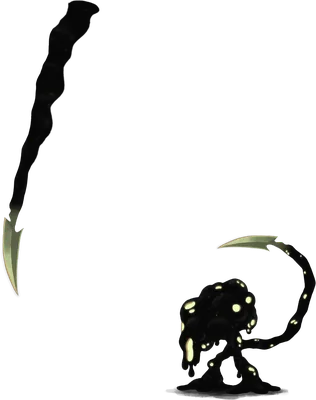
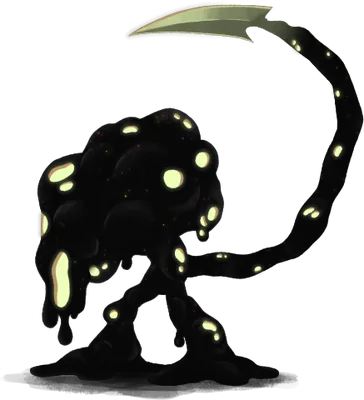
Reframe encounter artwork and dismiss tooltips on click

diff --git a/js/tooltip.js b/js/tooltip.js
@@ -311,21 +311,29 @@ document.addEventListener("pointerdown", e => {
   pressWasTouch = e.pointerType === "touch" || e.pointerType === "pen";
 }, { capture: true, passive: true });
 document.addEventListener("click", e => {
-  if (pressWasTouch && !pressStartedInTip && e.target.closest(TIP_BOXES)) {
+  const box = e.target.closest(TIP_BOXES);
+  if (!box) return;
+  if (pressWasTouch && !pressStartedInTip) {
     e.preventDefault();
     e.stopPropagation();
+    return;
   }
+  const control = e.target.closest("a, button, input, select, textarea, summary, [data-pick], [data-card-pop]");
+  if (control && box.contains(control)) return;
+  e.stopPropagation();
+  if (box.classList.contains("floor-tip")) closeFloorTip();
+  dismissTips();
 }, true);
 
-// Esc closes whatever tooltip is showing: the shared box, a focus-opened one
-// (blur) and a hover-opened CSS one (the same class a scroll uses, lifted
-// when the pointer next moves).
-document.addEventListener("keydown", e => {
-  if (e.key !== "Escape") return;
+// Close shared and inline tooltips on Escape or a click on their surface.
+function dismissTips() {
   hideSharedTooltip();
   const active = document.activeElement;
   if (active && active.matches(TIP_FOCUS_TRIGGERS)) active.blur();
   document.body.classList.add("suppress-hover-tooltips");
+}
+document.addEventListener("keydown", e => {
+  if (e.key === "Escape") dismissTips();
 });
 
 // "IRONCLAD" -> "Ironclad", for legends, labels, and tooltips

diff --git a/dashboard.css b/dashboard.css
@@ -1968,6 +1968,7 @@ h1 {
 }
 /* On a mouse, a box with nothing to hover in it never catches the pointer. */
 .floor-tip.passive:not(.docked) { pointer-events: none; }
+.floor-tip.passive:has(.encounter-art) { pointer-events: auto; }
 /* On touch: a sheet on the screen edge away from the chart (docked-top when the chart is in
    the lower half), so it never covers the chart being scrubbed. Placed by js/run-detail.js. */
 .floor-tip.docked {

diff --git a/tools/render_encounter_art.py b/tools/render_encounter_art.py
@@ -38,14 +38,16 @@ GODOT = ROOT / "tools" / "godot" / "Godot_v4.5.2-stable_mono_win64_console.exe"
 WORK = ROOT / "local_data" / "encounter-art"
 ART = ROOT / "encounter_art"
 
-# The tooltip draws these at half their pixel width (see .nt-enc-art in
-# dashboard.css), so 560 is a 280px picture that stays sharp on a 2x display.
-# Height follows the art: a row of slimes is short and wide, a boss is tall,
-# and a fixed box would pad most fights with empty space. The cap keeps the
-# tallest bosses from pushing a tooltip off the bottom of the screen.
+# Keep the source sharp at the tooltip's maximum 280 CSS pixels wide.
 TIP_WIDTH = 560
 TIP_MAX_HEIGHT = 400
 WEBP_QUALITY = 82
+# Fractional bounds on the trimmed render. At tooltip size, detached wisps
+# and the prism's distant ground shadow otherwise shrink the monsters.
+TOOLTIP_FRAMES = {
+    "encounter_soul_nexus_elite": (0.23, 0.36, 0.76, 0.90),
+    "encounter_infested_prisms_elite": (0.0, 0.0, 1.0, 0.63),
+}
 
 
 def copy_spine_extension(pck: Path) -> None:
@@ -90,6 +92,9 @@ def to_webp(png_dir: Path) -> None:
         box = im.getbbox()          # the renderer trims already; belt and braces
         if box:
             im = im.crop(box)
+        frame = TOOLTIP_FRAMES.get(png.stem)
+        if frame:
+            im = im.crop(tuple(round(edge * size) for edge, size in zip(frame, im.size * 2)))
         im.thumbnail((TIP_WIDTH, TIP_MAX_HEIGHT), Image.LANCZOS)
         im.save(ART / f"{png.stem}.webp", "WEBP", quality=WEBP_QUALITY, method=6)
         written += 1

diff --git a/build_site.py b/build_site.py
@@ -201,6 +201,11 @@ def repo_url(p: Path) -> str:
     return "/" + p.relative_to(run._HERE).as_posix()
 
 
+def versioned_art_url(path: Path) -> str:
+    digest = hashlib.sha256(path.read_bytes()).hexdigest()[:10]
+    return f"{repo_url(path)}?v={digest}"
+
+
 # power_data.json keys that nearly every card has one of (block, draw, exhaust...).
 # A link through one of these says nothing about a deck, so only the specific ones
 # (Strength, Poison, Osty, Shiv, Stars...) go to the site. Winning didn't track
@@ -601,7 +606,7 @@ def build_catalog() -> dict:
         # Every event's options, for the Events page (tools/build_event_catalog.py).
         "eventCatalog":       event_catalog,
         "nodeIcons":          run.build_node_icons(url_for=repo_url),
-        "encounterArt":       run.build_encounter_art(url_for=repo_url),
+        "encounterArt":       run.build_encounter_art(url_for=versioned_art_url),
         "cardFinal":          run.build_card_final_images(url_for=repo_url),
         "energyIcons":        run.build_energy_icons(url_for=repo_url),
         "charIcons":          run.build_char_icons(url_for=repo_url),
